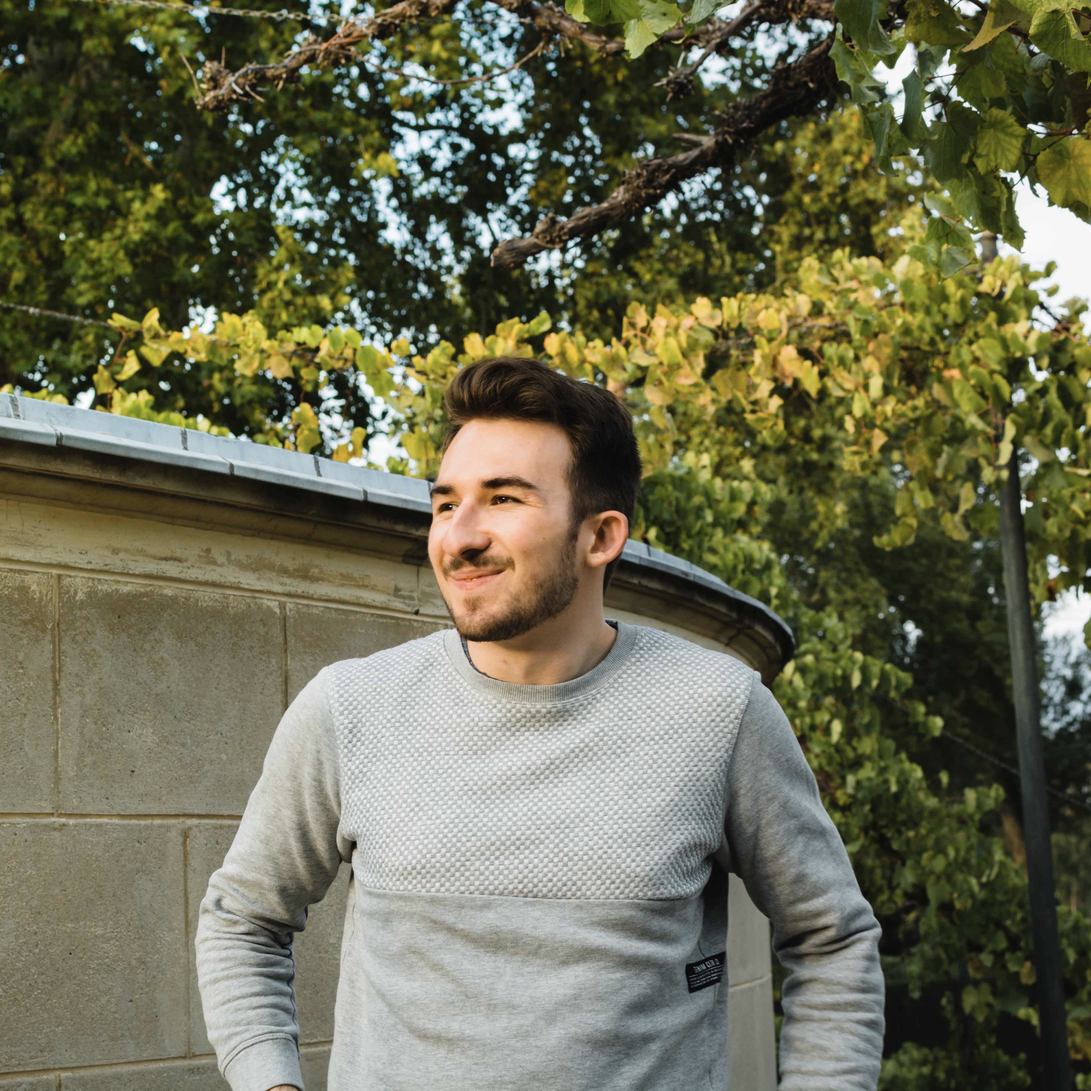
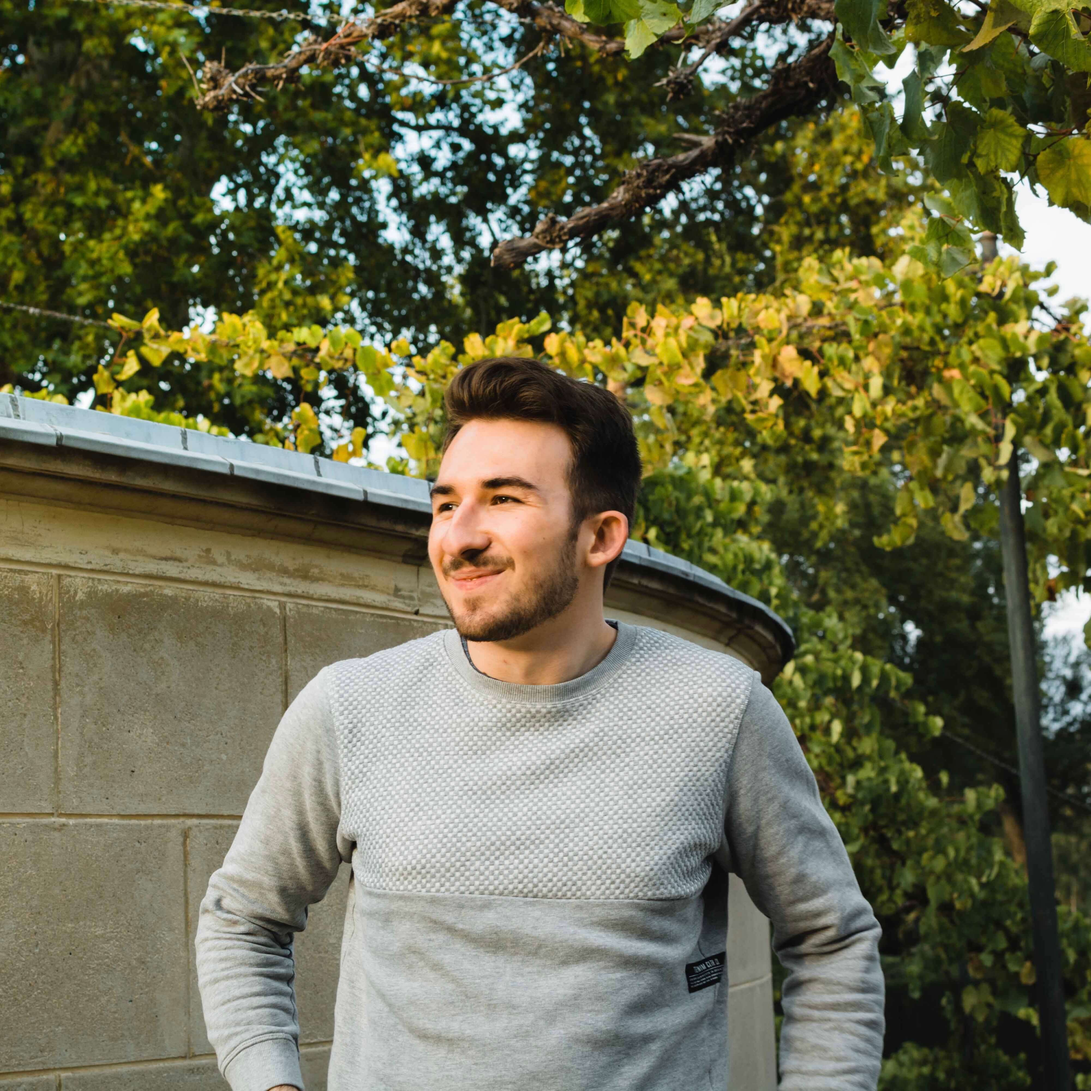
minify images

diff --git a/src/sections/Work/Work.tsx b/src/sections/Work/Work.tsx
@@ -17,7 +17,7 @@ const Work = () => {
                 <WorkPreview
                     data={{
                         title: 'v1bes',
-                        src: './works/v1bes.jpg',
+                        src: './works/v1bes-wide.png',
                         description: (
                             <span>
                                 As <b>Freelance Developer</b> I am part of a small Berlin based dev
@@ -33,7 +33,7 @@ const Work = () => {
                     className={styles.isHalf}
                     data={{
                         title: 'Endava (prev. Exozet)',
-                        src: './works/exozet.jpg',
+                        src: './works/exozet-square.png',
                         description: (
                             <span>
                                 As <b>Junior Developer</b> I was part of relaunching the media
@@ -48,7 +48,7 @@ const Work = () => {
                     className={styles.isHalf}
                     data={{
                         title: 'tink',
-                        src: './works/tink.jpg',
+                        src: './works/tink-square.png',
                         description: (
                             <span>
                                 As <b>Junior Frontend Developer</b> I boosted sales by developing/
@@ -63,7 +63,7 @@ const Work = () => {
                 <WorkPreview
                     data={{
                         title: 'rts.fm berlin',
-                        src: './works/rtsfm.jpg',
+                        src: './works/rtsfm-wide.png',
                         description: (
                             <span>
                                 As <b>Freelancer</b> I was recording and editing videos of techno

diff --git a/src/sections/Projects/Projects.tsx b/src/sections/Projects/Projects.tsx
@@ -17,7 +17,7 @@ const Projects = () => {
             <div>
                 <ProjectPreview
                     title={'Harvest Dashboard'}
-                    src={'https://source.unsplash.com/600x400/?clock'}
+                    src={'/projects/clock.png'}
                     text={
                         'The Harvest Dashboard (third-party client) aims to improve the user experience when tracking time with Harvest. This is accomplished by simplifying the interface, while also adding visualisation of data.'
                     }
@@ -28,7 +28,7 @@ const Projects = () => {
 
                 <ProjectPreview
                     title={'Bachelor Thesis'}
-                    src={'https://source.unsplash.com/600x400/?school'}
+                    src={'/projects/school.png'}
                     text={
                         "Educational plattform, that returns tailor-made content based on the student's learning profile and recommends new content on observed preferences."
                     }

diff --git a/src/sections/Contact/Contact.tsx b/src/sections/Contact/Contact.tsx
@@ -26,7 +26,7 @@ const Contact = () => {
             <div className={styles.contactInfo}>
                 <SocialCard
                     name={'Vincent Rohde'}
-                    image={'./backgrounds/mountain.jpg'}
+                    image={'./backgrounds/mountain.png'}
                     location={'Berlin, Germany'}
                     mail={'mail@vincentroh.de'}
                     socials={[

diff --git a/src/components/OverlayImage/OverlayImage.tsx b/src/components/OverlayImage/OverlayImage.tsx
@@ -11,7 +11,7 @@ interface Props extends ComponentProps<any> {
 
 const OverlayImage = ({src, isWhite = false, isGradient = false, overlay, className}: Props) => {
     const imageStyle = {
-        background: `url(${src})`,
+        background: `url(${src}) center`,
         backgroundSize: 'cover',
         backgroundPosition: 'center',
     };
